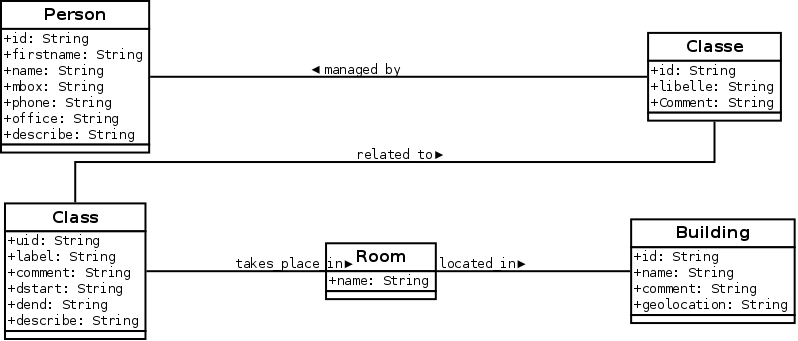
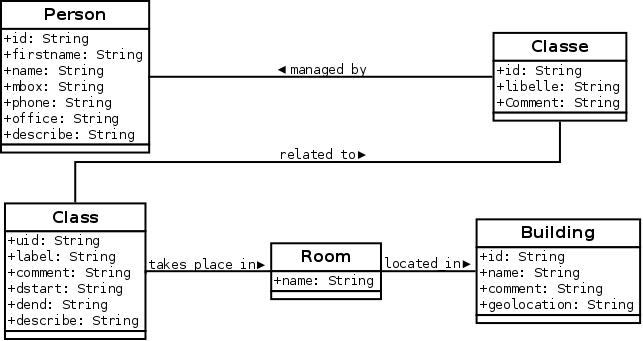
part 2 presentation ok

diff --git a/presentation/2.php b/presentation/2.php
@@ -1,19 +1,65 @@
 <div class="slide">
 	<h1>Modèle de données</h1>
-	
 	<h3>Modèle relationnel</h3>
 
-	
+	<center>
+	<img src="img/diag_class.svg" alt="diagramme de classes" style="height:15em"/>
+	</center>
 </div>
 
 <div class="slide">
 	<h1>Modèle de données</h1>
 	
 	<h3>Modèle RDF (Ontologie)</h3>
+
+	<center>
+	<img src="img/graph_ontology.svg" alt="ontologie" style="height:25em"/>
+	</center>
+
+	<ul>
+		<li>xsd <a href="http://www.w3.org/2001/XMLSchema#">http://www.w3.org/2001/XMLSchema#</a> (Formats)</li>
+		<li>lgdm <a href="http://linkedgeodata.org/ontology/">http://linkedgeodata.org/ontology/</a> (LinkedGeoData)</li>
+		<li>ev <a href="http://purl.org/NET/c4dm/event.owl#">http://purl.org/NET/c4dm/event.owl#</a> (Événements)</li>
+		<li>swrc <a href="http://swrc.ontoware.org/ontology#">http://swrc.ontoware.org/ontology#</a> (Université)</li>
+	</ul>
 </div>
 
 <div class="slide">
 	<h1>Modèle de données</h1>
 	
 	<h3>Mapping</h3>
+	<pre>
+################
+# Course table #
+################
+
+map:Course a d2rq:ClassMap;
+	d2rq:dataStorage map:database;
+	d2rq:uriPattern "Course/@@Course.id@@";
+	d2rq:class mo:Course;
+
+	d2rq:classDefinitionLabel "Course";
+	d2rq:classDefinitionComment "Course class";
+	d2rq:dataStorage map:database;
+.
+
+map:Course_label a d2rq:PropertyBridge;
+	d2rq:belongsToClassMap map:Course;
+	d2rq:property rdfs:label;
+	d2rq:column "Course.libelle";
+.
+
+map:Course_comment a d2rq:PropertyBridge;
+	d2rq:belongsToClassMap map:Course;
+	d2rq:property rdfs:comment;
+	d2rq:column "Course.comments";
+.
+
+map:Course_managedby a d2rq:PropertyBridge;
+	d2rq:belongsToClassMap map:Course;
+	d2rq:property mo:managedby;
+	d2rq:refersToClassMap map:Person;
+	d2rq:join "Course.managed_by = Personne.id";
+.
+	</pre>
 </div>
